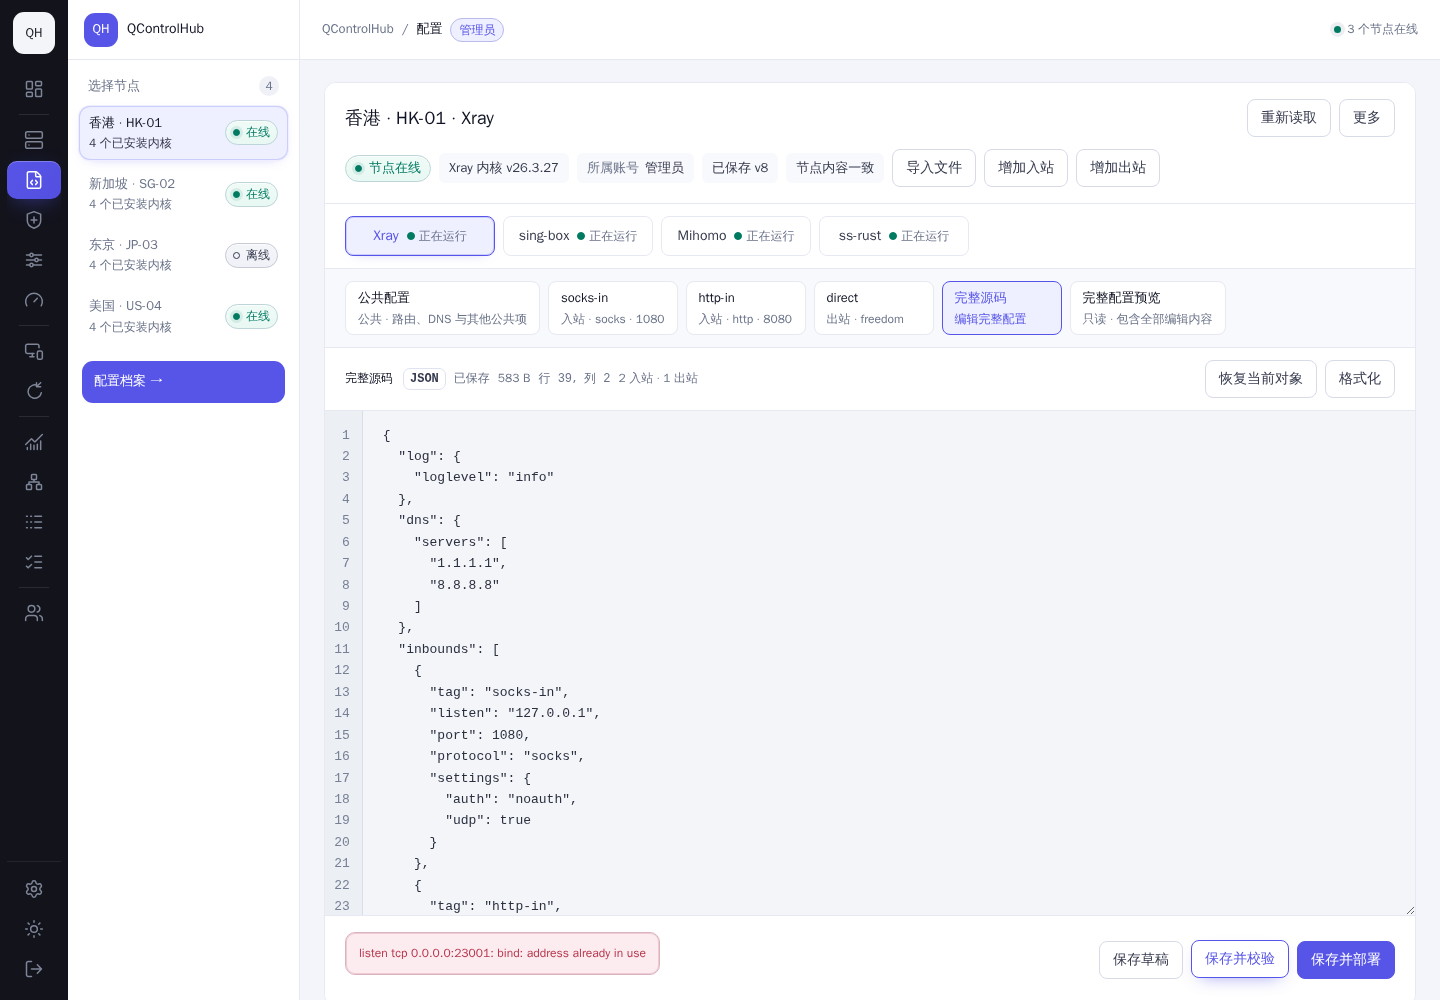
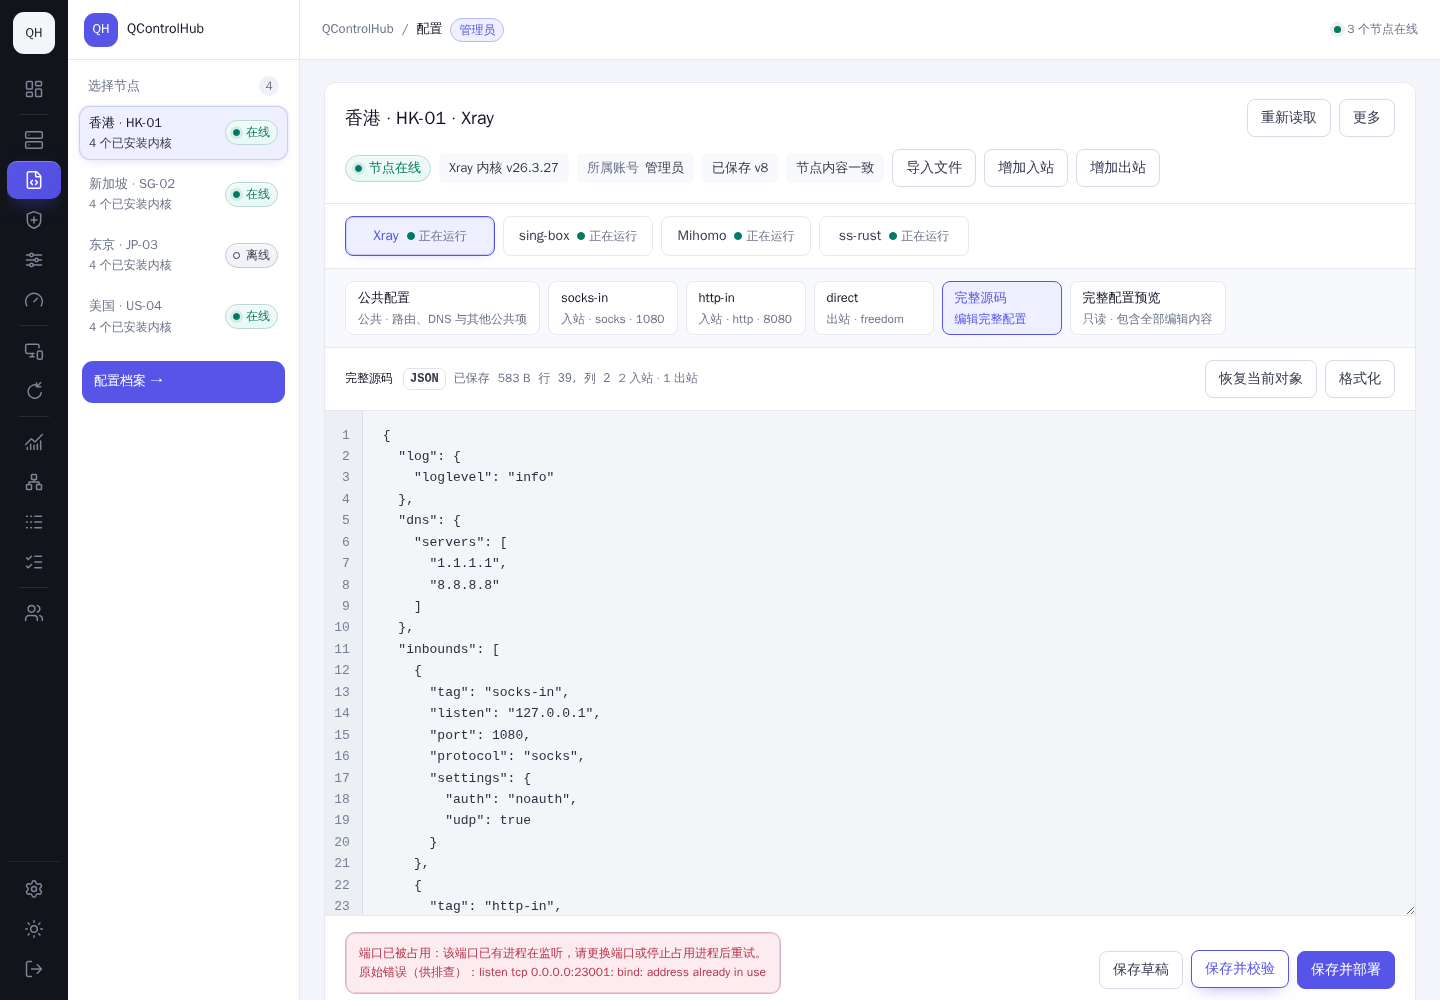
fix(config): pair failures with the original operator log
- errors.js: explain port conflicts, core start failures, JSON/YAML parse
  errors and unsupported fields; requestJSON keeps a non-localized body.error
  as the "raw log" suffix so the operator log survives translation.
- live-config-view, live-config-submit and preset-status: render the Chinese
  cause and the raw log in the state card and in the submit result, using <br>
  for line breaks and no inline styles.
- config-source and config_migration assertions: check the Chinese cause and
  that the original log appears exactly once.
- capture runtime: add an English read-failure fixture, refresh the failure
  screenshots and extend the layout report with the third pass.

Changed region(s): [[0.25, 0.93, 0.5312, 1.0], [0.75, 0.93, 0.9688, 0.992]]

diff --git a/frontend/modules/live-config-view.js b/frontend/modules/live-config-view.js
@@ -1,5 +1,5 @@
 import { coreInstallBlockReason } from "./core-install-state.js";
-import { redactDiagnostic } from "./errors.js";
+import { diagnosticError } from "./errors.js";
 import { agentPresenceMarkup } from "./agent-presence.js";
 import { sharedAllocationText } from "./shared-instance-state.js";
 import { renderConfigObjectActions, renderConfigWorkspaceTools } from "./config-workspace-toolbar.js";
@@ -63,7 +63,7 @@ export function createLiveConfigView({state, can, esc, engineName, conciseVersio
     const actions = importSource
       ? can("agent-config.write") && can("tasks.execute") && agent.status === "online" && !unsupportedReason ? '<button class="button primary" type="submit" data-live-intent="import">导入并迁移</button>' : ""
       : writable ? `<button class="button" type="submit" data-live-intent="save">保存草稿</button>${executable ? '<button class="button" type="submit" data-live-intent="validate">保存并校验</button><button class="button primary" type="submit" data-live-intent="deploy">保存并部署</button>' : ""}` : "";
-    const editor = current ? `<form class="live-config-editor" id="live-config-form" data-profile-editor data-engine="${esc(engine)}"><nav class="config-file-buttons" aria-label="配置对象"><div class="config-file-list" data-config-objects data-refresh-scroll></div></nav><section class="code-workspace" data-code-editor data-code-language="${language}" data-code-max-bytes="2097152"><header class="code-editor-toolbar"><div class="code-file-meta"><b>公共配置</b></div><div class="code-editor-meta"><span class="code-language">${language}</span><span data-code-status aria-live="polite">${importSource ? "只读快照" : "已保存"}</span><span data-code-bytes></span><span data-code-position>行 1，列 1</span><span data-config-object-count></span></div>${renderConfigObjectActions(can, sourceMode)}${writable ? '<div class="config-editor-actions" role="group" aria-label="当前对象源码操作"><button class="button code-reset" type="button" data-code-reset disabled>恢复当前对象</button><button class="button code-format" type="button" data-code-format>格式化</button></div>' : ""}</header><div class="code-editor-frame"><aside class="code-gutter" aria-hidden="true" data-line-numbers>1</aside><textarea class="code-editor-input" name="content" data-code-input aria-label="${esc(engineName(engine))} 节点配置源码" spellcheck="false" required${writable ? "" : " readonly"}>${esc(current.content)}</textarea></div><footer><span data-workspace-result role="status" aria-live="polite"></span><span><span data-code-validation aria-live="polite"></span></span><span class="config-draft-summary" role="status"></span><div>${actions}</div></footer></section><input type="hidden" name="name" value="${esc(current.name)}"><input type="hidden" name="description" value="${esc(current.description || "")}"><input type="hidden" name="version" value="${current.version}"></form>` : `<section class="node-config-source" role="status" aria-live="polite"><div><h2>${liveConfigPhase === "offline" ? "节点离线" : liveConfigPhase === "unsupported" ? "检测到现有服务，但不可自动迁移" : liveConfigPhase === "upgrade" ? "需要升级 Agent 后读取配置" : liveConfigPhase === "error" ? "读取配置失败" : "正在读取配置"}</h2>${source?.error || unsupportedReason ? `<small>${esc(redactDiagnostic(source?.error || unsupportedReason))}</small>` : liveConfigPhase === "upgrade" ? "<small>当前 Agent 版本不支持读取托管配置，升级后可在此编辑。</small>" : ""}</div>${liveConfigPhase === "error" || liveConfigPhase === "offline" || liveConfigPhase === "upgrade" ? '<form><button class="button" type="button" data-read-current>重新读取</button></form>' : ""}</section>`;
+    const editor = current ? `<form class="live-config-editor" id="live-config-form" data-profile-editor data-engine="${esc(engine)}"><nav class="config-file-buttons" aria-label="配置对象"><div class="config-file-list" data-config-objects data-refresh-scroll></div></nav><section class="code-workspace" data-code-editor data-code-language="${language}" data-code-max-bytes="2097152"><header class="code-editor-toolbar"><div class="code-file-meta"><b>公共配置</b></div><div class="code-editor-meta"><span class="code-language">${language}</span><span data-code-status aria-live="polite">${importSource ? "只读快照" : "已保存"}</span><span data-code-bytes></span><span data-code-position>行 1，列 1</span><span data-config-object-count></span></div>${renderConfigObjectActions(can, sourceMode)}${writable ? '<div class="config-editor-actions" role="group" aria-label="当前对象源码操作"><button class="button code-reset" type="button" data-code-reset disabled>恢复当前对象</button><button class="button code-format" type="button" data-code-format>格式化</button></div>' : ""}</header><div class="code-editor-frame"><aside class="code-gutter" aria-hidden="true" data-line-numbers>1</aside><textarea class="code-editor-input" name="content" data-code-input aria-label="${esc(engineName(engine))} 节点配置源码" spellcheck="false" required${writable ? "" : " readonly"}>${esc(current.content)}</textarea></div><footer><span data-workspace-result role="status" aria-live="polite"></span><span><span data-code-validation aria-live="polite"></span></span><span class="config-draft-summary" role="status"></span><div>${actions}</div></footer></section><input type="hidden" name="name" value="${esc(current.name)}"><input type="hidden" name="description" value="${esc(current.description || "")}"><input type="hidden" name="version" value="${current.version}"></form>` : `<section class="node-config-source" role="status" aria-live="polite"><div><h2>${liveConfigPhase === "offline" ? "节点离线" : liveConfigPhase === "unsupported" ? "检测到现有服务，但不可自动迁移" : liveConfigPhase === "upgrade" ? "需要升级 Agent 后读取配置" : liveConfigPhase === "error" ? "读取配置失败" : "正在读取配置"}</h2>${source?.error || unsupportedReason ? `<small>${esc(diagnosticError(source?.error || unsupportedReason)).replace(/\n/g, "<br>")}</small>` : liveConfigPhase === "upgrade" ? "<small>当前 Agent 版本不支持读取托管配置，升级后可在此编辑。</small>" : ""}</div>${liveConfigPhase === "error" || liveConfigPhase === "offline" || liveConfigPhase === "upgrade" ? '<form><button class="button" type="button" data-read-current>重新读取</button></form>' : ""}</section>`;
     const hint = emptyManaged ? `${engineName(engine)} 未安装；${coreInstallBlockReason(agent, engine, can, {automatic:true}) || "增加入站时可准备稳定版内核。"}` : agent.can_manage === false ? sharedAllocationText(agent, bytes) : "";
     shell(`<article class="live-config-workspace" data-refresh-key="live-config-content-${esc(agent.id)}-${esc(engine)}-${esc(sourceMode)}-${esc(liveConfigPhase)}" data-live-config-phase="${esc(liveConfigPhase)}" data-motion-region="config-source" data-motion-key="${esc(sourceMode)}" data-motion-ready="${liveConfigPhase !== "loading"}"><header class="editor-toolbar"><div><h2>${esc(agent.name)} · ${esc(engineName(engine))}</h2></div><div class="editor-toolbar-state">${renderConfigWorkspaceTools({can, agent, engine, sourceMode, esc})}</div></header>${details}${engineBar}${sourceSwitch}${hint ? `<p class="config-install-hint">${esc(hint)}</p>` : ""}${workspace?.conflict ? '<p class="alert error" role="alert">配置版本已变化</p>' : ""}${editor}</article>`, "配置", {viewKey:`live-config-${agent.id}-${engine}-${sourceMode}`});
     return document.querySelector(".live-config-workspace");

diff --git a/frontend/modules/preset-status.js b/frontend/modules/preset-status.js
@@ -1,6 +1,6 @@
 import { enterSurface } from "./motion.js";
 import { taskTerminal } from "./task-monitor.js";
-import { redactDiagnostic } from "./errors.js";
+import { diagnosticError } from "./errors.js";
 
 // Operation feedback remains account-scoped and follows the same deployment
 // poller used by the source editor.
@@ -17,6 +17,22 @@ function saveOperation(operation) {
   return operation;
 }
 const hasTaskFeedback = taskID => Object.values(state.data.presetOperations || {}).some(operation => operation.task?.id === taskID);
+
+// Failure feedback carries a Chinese explanation followed by the original log,
+// so newlines become real line breaks without injecting markup.
+function fillStatusText(element, message) {
+  const text = String(message ?? "");
+  if (!text.includes("\n") || typeof document.createTextNode !== "function") {
+    element.textContent = text;
+    return;
+  }
+  const nodes = [];
+  text.split("\n").forEach((line, index) => {
+    if (index) nodes.push(document.createElement("br"));
+    nodes.push(document.createTextNode(line));
+  });
+  element.replaceChildren(...nodes);
+}
 
 function renderPresetStatus() {
   const key = state.route === "live-config" ? `${state.data.liveAgent}|${state.data.liveEngine}|${state.data.liveConfigSource}` : `${state.data.agentId}|${state.data.engine}`;
@@ -38,7 +54,7 @@ function renderPresetStatus() {
   status.className = `alert preset-submit-status ${operation.tone}`;
   status.setAttribute("role", operation.tone === "error" ? "alert" : "status");
   status.setAttribute("aria-live", "polite");
-  status.textContent = operation.message;
+  fillStatusText(status, operation.message);
   if (changed) enterSurface(status, { token: "--motion-feedback" });
   if (operation.task?.id && can("tasks.read") && operation.tone !== "error") {
     const link = document.createElement("a");
@@ -76,7 +92,7 @@ function renderPresetStatus() {
       catch (error) {
         if (operationFor(key) !== operation) return;
         operation.reload = true;
-        operation.message = redactDiagnostic(error.message) || "配置加载失败";
+        operation.message = diagnosticError(error.message) || "配置加载失败";
         renderPresetStatus();
         editor.syncControls();
       }
@@ -98,7 +114,7 @@ function watchPresetOperation(operation) {
     operation.task = latest;
     operation.message = latest.status === "succeeded"
       ? `${verb}成功`
-      : redactDiagnostic(latest.error) || `${verb}${latest.status === "canceled" ? "已取消" : "失败"}`;
+      : diagnosticError(latest.error) || `${verb}${latest.status === "canceled" ? "已取消" : "失败"}`;
     operation.tone = latest.status === "succeeded" ? "success" : "error";
     if (task.install_if_missing || intent === "deploy") onRuntimeChange(agentId, engine);
     renderPresetStatus();
@@ -121,7 +137,7 @@ function watchPresetOperation(operation) {
     finish(latest);
   }).catch(error => {
     if (!tracked() || error.name === "AbortError") return;
-    operation.message = redactDiagnostic(error.message) || "无法获取任务结果";
+    operation.message = diagnosticError(error.message) || "无法获取任务结果";
     operation.tone = "error";
     renderPresetStatus();
   }).finally(() => { operation.monitoring = false; });

diff --git a/frontend/modules/errors.js b/frontend/modules/errors.js
@@ -54,6 +54,10 @@ export function diagnosticError(value) {
   const cause = raw.replace(/configuration fields: [^;\r\n]*;\s*/gi, "");
   const certificateFormatMessage = "证书或 TLS 私钥格式错误。请检查 PEM 编码、证书与私钥是否匹配，并按下方字段修正配置。";
   const explanations = [
+    [/address already in use|bind: address already in use/i, "端口已被占用：该端口已有进程在监听，请更换端口或停止占用进程后重试。"],
+    [/failed to (?:start|run) (?:the )?(?:core|service)|(?:core|service) (?:start|run) failed|start service failed/i, "内核服务启动失败，请检查配置、端口占用与运行权限，并按下方原始日志定位原因。"],
+    [/(?:unexpected end of JSON input|invalid character|json: cannot unmarshal|yaml: (?:unmarshal|line)|did not find expected)/i, "配置内容无法解析，请检查 JSON / YAML 语法（括号、逗号、缩进与引号）后重试。"],
+    [/(?:unknown field|unsupported field|field .* not found|unsupported (?:protocol|option|type))/i, "内核不支持该配置项，请核对字段名与内核版本后重试。"],
     [/lookup api\.github\.com[^\r\n]*(?:timeout|timed out)|GitHub API domain resolution timed out/i, "GitHub API 域名解析超时。请检查节点 DNS；仅 IPv6 节点需使用可达的 IPv6 DNS。下方原始错误会说明是否尝试加速及其结果。"],
     [/GitHub API.*rate limit.*(?:exhausted|exceeded)/i, "GitHub API 请求额度已耗尽，请按下方提示的重置时间重试；加速服务可能共享上游额度。"],
     [/(?:GitHub API metadata|release download) returned HTTP 404/i, "GitHub Release 或下载资源不存在，请检查所选核心、版本及发布来源。"],
@@ -141,9 +145,15 @@ export async function requestJSON(url, options, {
     }
     assertCurrent();
     const message = errorMessage(body?.error, response.status);
+    const rawDetail = typeof body?.error === "string" ? redactDiagnostic(body.error.trim()) : "";
+    // Keep the operator log next to the Chinese cause; an already localized
+    // message is its own explanation.
+    const rawSuffix = rawDetail && !/\p{Script=Han}/u.test(rawDetail) && rawDetail !== message
+      ? `\n原始错误（供排查）：${rawDetail}`
+      : "";
     const requestID = body?.request_id || response.headers?.get?.("X-Request-ID");
     const safeRequestID = typeof requestID === "string" && /^[a-zA-Z0-9_-]{1,128}$/.test(requestID) ? requestID : "";
-    const error = new Error(`${message}${safeRequestID ? `（请求 ID：${safeRequestID}）` : ""}`);
+    const error = new Error(`${message}${safeRequestID ? `（请求 ID：${safeRequestID}）` : ""}${rawSuffix}`);
     error.status = response.status;
     error.requestID = safeRequestID;
     if (body?.code === "task_schema_incompatible" && body?.stage === "task_creation" && response.status === 500) {

diff --git a/frontend/modules/live-config-submit.js b/frontend/modules/live-config-submit.js
@@ -1,6 +1,6 @@
 import { updateFeedback } from "./presence-motion.js";
 import { bindEvent } from "./refresh.js";
-import { redactDiagnostic } from "./errors.js";
+import { diagnosticError } from "./errors.js";
 import { submitLiveConfigChange } from "./live-config-state.js";
 import { taskTerminal } from "./task-monitor.js";
 
@@ -28,7 +28,7 @@ export function bindLiveConfigSubmit({api, state, can, confirmAction, submitTask
     if (workspace.conflict) { report("配置版本已变化", "error"); return; }
     const form = new FormData(formElement);
     try { form.set("content", configFiles ? configFiles.content() : form.get("content")); }
-    catch (error) { report(error.message, "error"); return; }
+    catch (error) { report(diagnosticError(error.message), "error"); return; }
     form.set("version", workspace.saved?.version || 0);
     const ongoing = status.operationFor(key);
     if (intent !== "save" && ongoing?.task?.id && !taskTerminal(ongoing.task) && ongoing.intent === intent &&
@@ -83,7 +83,7 @@ export function bindLiveConfigSubmit({api, state, can, confirmAction, submitTask
       if (accountData !== state.data || error.name === "AbortError") return;
       workspace.uncertain = !error.deployPreflight && submitted && !persisted && (!error.status || error.status >= 500 || error.status === 409);
       workspace.phase = workspace.uncertain ? "uncertain" : "ready";
-      const message = redactDiagnostic(error.message) || "提交失败";
+      const message = diagnosticError(error.message) || "提交失败";
       report(message, "error");
       if (persisted && current()) {
         try { await liveConfig(); } catch { /* Durable saved state and feedback are retained for the next render. */ }

diff --git a/docs/config-workspace-layout/README.md b/docs/config-workspace-layout/README.md
@@ -45,6 +45,30 @@
 - **提交 toast 去重**：`submitTask` 增加 `options.quiet`，配置页校验 / 部署不再弹全局「任务已提交」toast——内联结果区已含「校验已提交 · 查看任务」与终态，失败时也不会再出现绿勾提示与红色错误并列。
 - **页脚高度**：就绪态 83 → 71（去掉空结果行占位），提交后 90，只读 33。
 
+### 6. 报错统一为「中文故障说明 + 原始日志」（第三轮）
+
+此前配置页的报错只有一半信息：读取失败在 `requestJSON` 里被翻译成中文状态说明后，原始日志被丢弃；任务失败则直接显示 Agent 的英文输出。现在统一成两段式：
+
+- **中文故障说明**：`frontend/modules/errors.js` 的 `diagnosticError` 新增端口占用（`bind: address already in use`）、内核启动失败、JSON / YAML 解析失败、不支持的字段等规则，其余沿用证书、权限、磁盘、DNS 等既有分类；未命中时给出通用排查句。
+- **原始日志**：脱敏后的原文照常输出，前缀「原始错误（供排查）：」，不做二次改写。
+- **HTTP 层不再丢日志**：`requestJSON` 构造错误时附带 `body.error`（仅当它不是中文时），读取失败卡片、提交结果与通知都会同时带两类信息。
+- **渲染**：无编辑器卡片用 `<small>` 分两行；提交区结果由 `preset-status.js` 的 `fillStatusText` 用 `<br>` 分行，不写内联样式，长度随内容自适应。
+- **断言同步**：`frontend/browser/config-source.mjs`、`frontend/config_migration_browser_runtime.mjs` 改为断言「包含中文说明 + 原始日志，且原始文本只出现一次」。
+
+例如部署失败时提交区显示：
+
+```
+端口已被占用：该端口已有进程在监听，请更换端口或停止占用进程后重试。
+原始错误（供排查）：listen tcp 0.0.0.0:23001: bind: address already in use
+```
+
+读取失败（英文操作日志）时错误卡片显示：
+
+```
+无法连接后端服务，请稍后重试，或联系管理员检查反向代理与后端服务。
+原始错误（供排查）：read workspace: dial tcp 10.0.4.21:7801: connect: connection refused
+```
+
 
 ## 二、纵向节奏（1440×1000 / 浅色 / 就绪）
 
@@ -97,6 +121,7 @@
 | 提交失败 | `?state=fail` + 保存并校验 | 结果区显示节点返回的错误，编辑器与草稿保留 |
 | 首屏加载 | `?state=loading` | 仍为应用级过渡（本次未改，见未验证项） |
 | 离线 | `?state=offline` | 「节点离线」卡片 + 重新读取，无动作按钮 |
+| 英文原始错误 | `?state=error-en` | 中文故障说明 + 「原始错误（供排查）」两行 |
 | 不可迁移 | `?state=unsupported` | 说明卡片（不可自动迁移的字段），无动作按钮 |
 | 需升级 | `?state=upgrade` | 说明卡片 + 重新读取 |
 | 导入快照 | `?state=import` | 只读快照、页脚「导入并迁移」、单来源不渲染切换 |
@@ -143,6 +168,7 @@
 - 桌面 / 手机 / 平板、明暗主题、字号 90 / 100 / 110 下均无横向溢出、无对象按钮裁切，编辑器可聚焦并输入，输入后状态回到「未保存」；
 - 键盘：对象列表 Enter 切换、焦点留在按钮；「更多」菜单 Enter / ArrowDown / Escape 与焦点归还正常；`focus-visible` 轮廓可见。
 - 第二轮状态走查：15 个状态 × 桌面 / 手机 × 浅色 / 深色共 60 次采集，全部 `overflowX=false`、无页面异常，页脚与提交按钮在提交中 / 成功 / 失败时同屏。
+- 第三轮报错格式：`errors_smoke`、`module_smoke`、`config_workspace_smoke`、7 个配置浏览器套件全部通过；`?state=error-en` 与 `?state=fail` 截图确认中文说明 + 原始日志两行同屏。
 - 第二轮回归：`module_smoke`、`config_workspace_smoke`、`generate-styles --check`、`go test ./frontend -run 'TestStyles|TestConfig'` 通过；`QCH_BROWSER_SMOKE_MODES=config-layout,config-layout-mobile,config-inbounds,config-inbounds-mobile,config-restrictions,config-scope,config-migration` 的 `TestAgentBrowserRuntimeSmoke` 通过（25.8s）。
 
 ## 七、未验证项与已知限制
@@ -153,6 +179,7 @@
 - 只读来源的草稿、部署确认等 #308 既有能力未改动，其行为由 #308 套件覆盖。
 - 对象较多时（`?long=1` 的 13 个对象）对象导航为横向滚动，选中项会自动滚入视野，列表左端因此可能出现被裁切一半的按钮，这是横向滚动列表的固有表现。
 - 配置版本冲突（`conflict`）提示没有单独构造采集，其渲染路径与 `alert` 错误一致，由 #308 套件覆盖。
+- 原始日志较长（多行内核输出）时错误卡片会随内容变高，未做折叠或截断，便于直接复制排查。
 
 ## 八、证据复现
 
